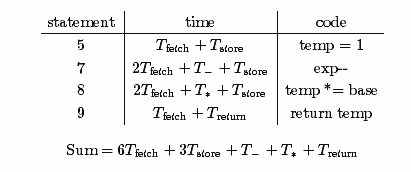
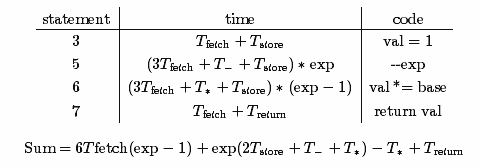
Another image fix

diff --git a/prog1/README.md b/prog1/README.md
@@ -44,3 +44,7 @@ uintmax_t pow(uintmax_t base, uintmax_t exp)
 Detailed Model:
 
 ![](../images/5a0eed40e8d6891235c258321339e57d.png)
+
+Simplified Model:
+
+![](../images/04b3ebdbbba96ffaa17ec948bbb73dec.png)
